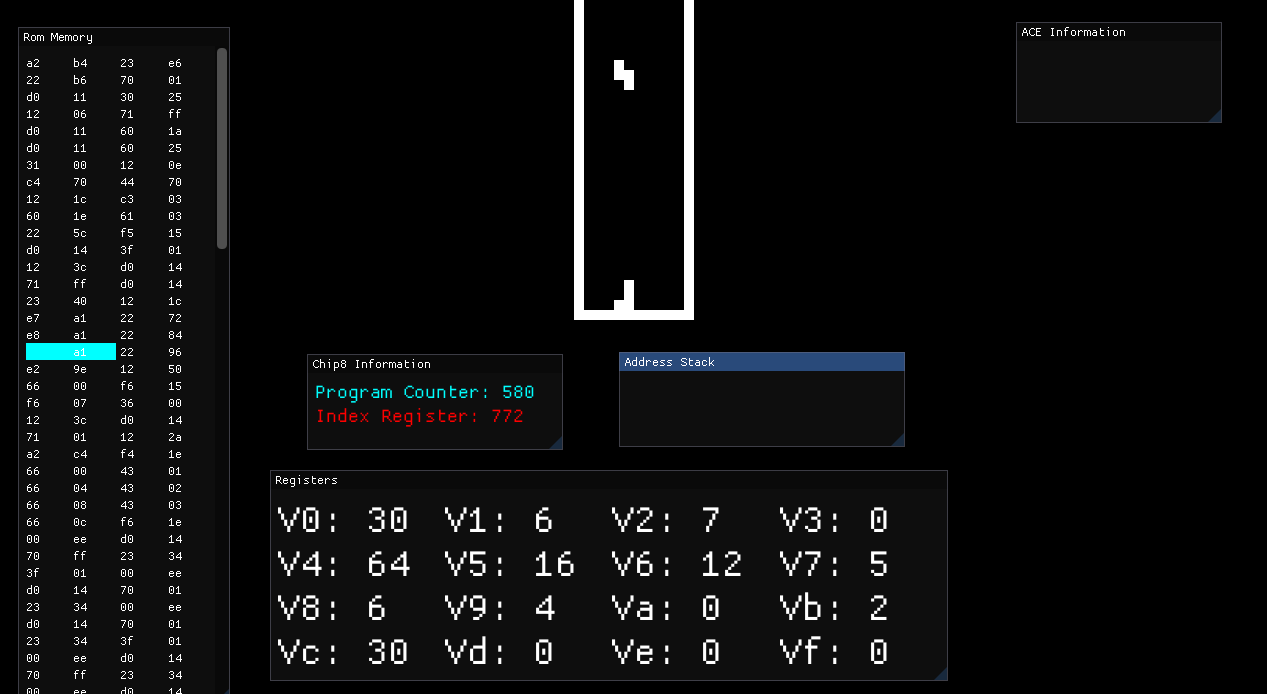
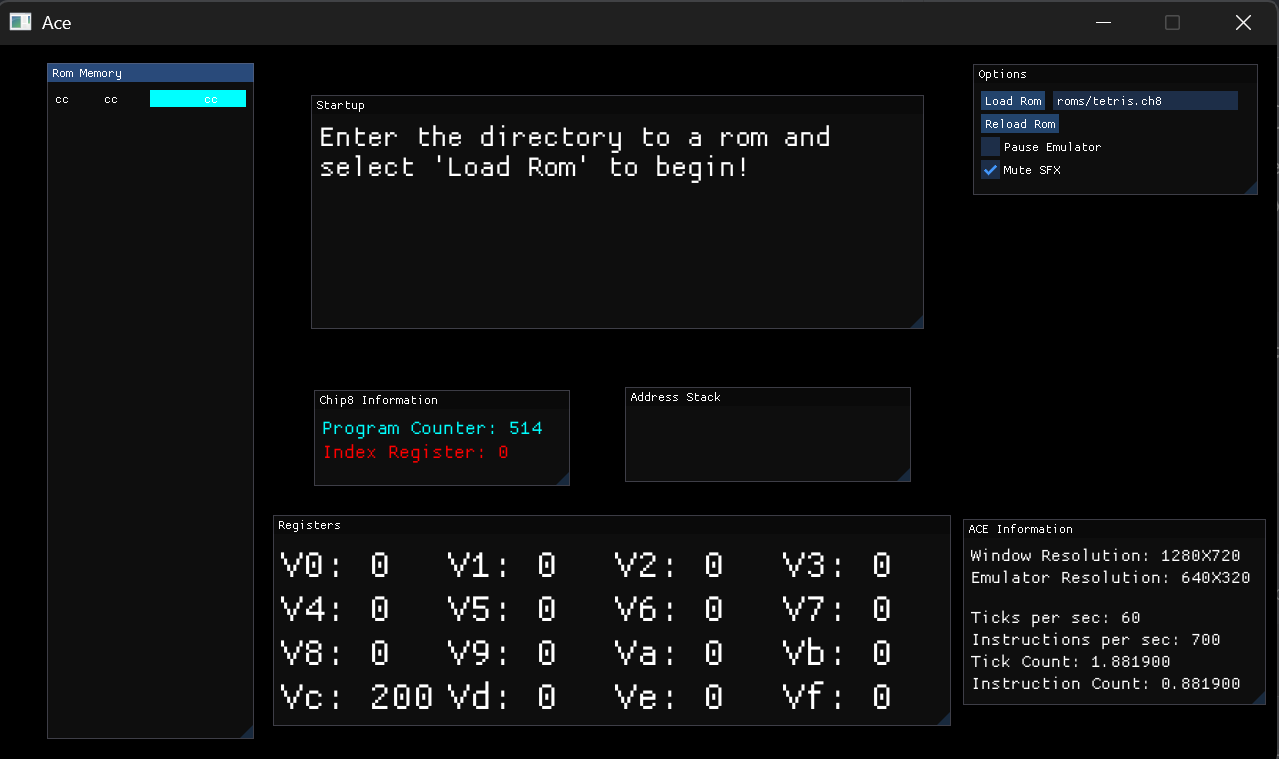
First Release Cleanup

diff --git a/src/main.cpp b/src/main.cpp
@@ -15,14 +15,6 @@
 // Ref: https://tobiasvl.github.io/blog/write-a-chip-8-emulator/
 // Ref: http://devernay.free.fr/hacks/chip8/C8TECH10.HTM
 
-// change build structure/initial setup, run cmake -S . -B build
-// to actually build, run cmake --build build
-// then ./debug/ace.exe
-
-// if SDL3 is properly installed, this should work
-
-// constexpr evaluates at compile rather than runtime
-// brace init for type safety (?)
 constexpr int SCREEN_WIDTH { 1280 };
 constexpr int SCREEN_HEIGHT { 720 }; 
 
@@ -46,9 +38,6 @@ bool Pause = false;
 
 SDL_Window* gWindow { nullptr };
 SDL_Renderer* gRenderer { nullptr };
-
-// Check specific memory location for font and print
-// it to see if output is valid
 
 bool Init() {
 	//initialze sdl
@@ -92,9 +81,6 @@ void Close()
     SDL_Quit();
 }
 
-// we dont want to just set the register whenever
-// we want to wait until we are requesting an input
-// we only need to set the hexideceimal value
 
 void CheckForInput(SDL_Event& e, c8_emulator& c8) {
     if(e.type == SDL_EVENT_KEY_DOWN) {
@@ -158,7 +144,7 @@ void CheckForInput(SDL_Event& e, c8_emulator& c8) {
 
     // when a key is not down, set hexvalue to -99 or something out of range
 }
-// tick seperate function for timers? can keep timing seperate to cycle and allows them to run when a cycle is paused for input
+
 
 int main(int argc, char* args[]){
     // setup SDL
@@ -174,7 +160,6 @@ int main(int argc, char* args[]){
 
     // no idea what SDL_PIXELFORMAT_RGBA8888 does...
     // SDL_TEXTUREACCESS_STREAMING = texture changes constantly (it does)
-    // when screen width is doubled you gget 2 copies of the texture, when screen height is doubled it crashes..
     SDL_Texture* videoTexture = SDL_CreateTexture(gRenderer, SDL_PIXELFORMAT_RGBA8888,SDL_TEXTUREACCESS_STREAMING, EMULATOR_WIDTH, EMULATOR_HEIGHT);
     SDL_SetTextureScaleMode(videoTexture, SDL_SCALEMODE_PIXELART);
     // look into thiss

diff --git a/src/c8_emulator.cpp b/src/c8_emulator.cpp
@@ -415,6 +415,4 @@ void c8_emulator::Cycle() {
         std::cout << "Unknown Nibble... \n";
         break;
     }
-    
-    // should be before we do instruction stuff for some reason?
 }

diff --git a/README.md b/README.md
@@ -9,7 +9,7 @@ My version of a Chip8 emulator (Also using it to practice CMake)
 ```cmake
 cmake -S . -B build
 ```
-**If you do not have SDL3 Installed, it will be installed and placed in a _deps folder inside this project.**
+**!The makefile will install SDL3, SDL_Mixer and ImGUi into the project directory even if you already have them downloaded!**
 
 5. Once the configuration has finished, run:
 ```cmake
@@ -17,8 +17,10 @@ cmake --build build
 ```
 6. Once the program has been built, simply run it, for windows its:
 ```
-.\build\Debug\ace.exe path\to\rom
+.\build\Debug\ace.exe 
 ```
+* Or you can click on the Ace.exe file itself
+
 You should be greeted with the following:
 
 <center><img src="images/example.png" alt="drawing" width="500"/></>
